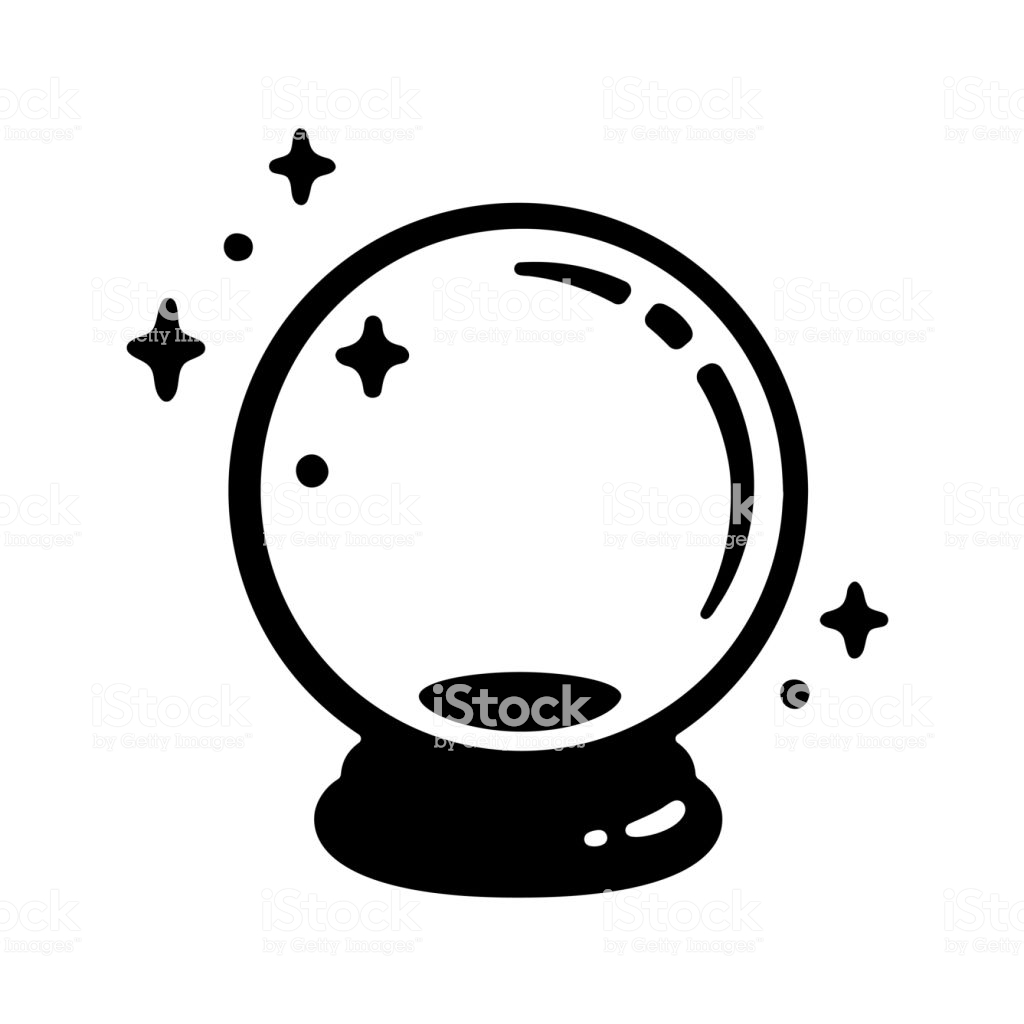
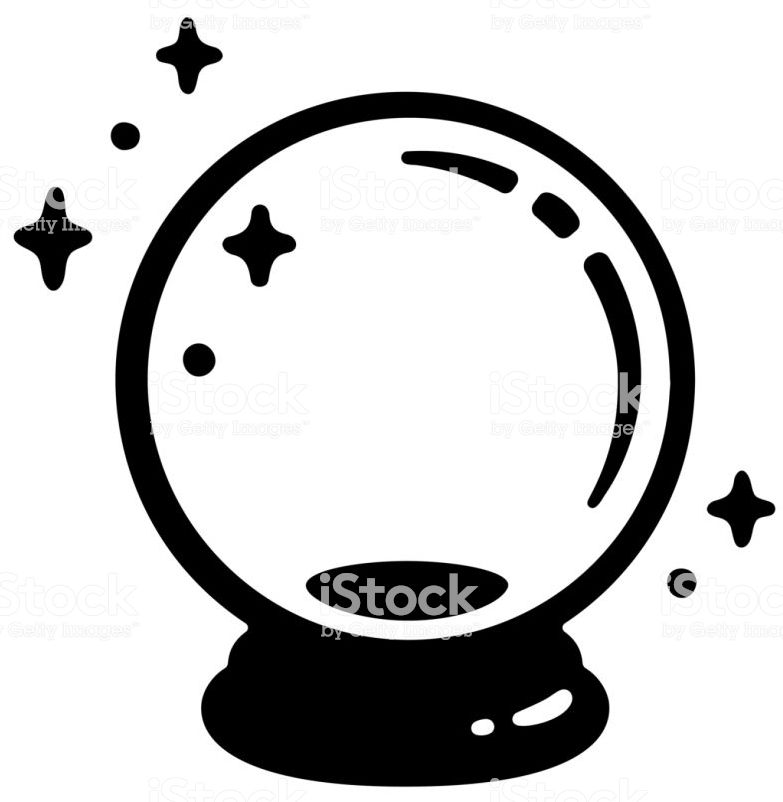
Should be done now, may make changes later on

diff --git a/assets/javascript/game.js b/assets/javascript/game.js
@@ -1,0 +1,66 @@
+var winCount = 0;
+var lossCount = 0;
+var guessesLeft = 10;
+var guessesSoFar = [];
+var alphabet = ["A", "B", "C", "D", "E", "F", "G", "H", "I", "J", "K", "L", "M", "N", "O", "P", "Q", "R", "S", "T", "U", "V", "W", "X", "Y", "Z"];
+var hardMode = false;
+var userKey2 = "";
+
+// hardMode = confirm("Welcome! Would you like to play on hard mode (I could be thinking of a number, too)?");
+// if (hardMode) {
+//     alphabet = ["A", "B", "C", "D", "E", "F", "G", "H", "I", "J", "K", "L", "M", "N", "O", "P", "Q", "R", "S", "T", "U", "V", "W", "X", "Y", "Z", "0", "1", "2", "3", "4", "5", "6", "7", "8", "9"];
+// }
+
+var targetChar = alphabet[Math.floor(Math.random()*alphabet.length)];
+console.log("Answer: " + targetChar);
+
+var winCountDiv = $("#winCount");
+winCountDiv.text("Wins: " + winCount);
+
+var lossCountDiv = $("#lossCount");
+lossCountDiv.text("Losses: " + lossCount);
+
+var guessesLeftDiv = $("#guessesLeft");
+guessesLeftDiv.text("You have " + guessesLeft + " guesses remaining.");
+
+var guessesSoFarDiv = $("#guessesSoFar");
+guessesSoFarDiv.text("Here's what you've guessed so far: [" + guessesSoFar + "]");
+
+// function addGuess(keyboardGuess) {
+//     guessesSoFar.push(keyboardGuess);
+// }
+
+function resetGame() {
+    guessesLeft = 10;
+    guessesLeftDiv.text("You have " + guessesLeft + " guesses remaining.");
+    guessesSoFar = [];
+    guessesSoFarDiv.text("Here's what you've guessed so far: [" + guessesSoFar + "]");
+    targetChar = alphabet[Math.floor(Math.random()*alphabet.length)];
+}
+
+function getKey(event) {
+    var userKey1 = event.keyCode;
+    var userKey2 = String.fromCharCode(userKey1).toUpperCase();
+    guessesLeft -= 1;
+    guessesLeftDiv.text("You have " + guessesLeft + " guesses remaining.");
+    guessesSoFar.push(userKey2);
+    guessesSoFarDiv.text("Here's what you've guessed so far: [" + guessesSoFar + "]");
+
+    if (userKey2 == targetChar) {
+        winCount += 1;
+        winCountDiv.text("Wins: " + winCount);
+        alert("You win!!! I -was- thinking of the letter '" + targetChar + "'! :D");
+        resetGame();
+    }
+
+    if (guessesLeft == 1) {
+        guessesLeftDiv.text("You have " + guessesLeft + " guess remaining. Make it count!");
+    }
+
+    if (guessesLeft == 0) {
+        lossCount += 1;
+        lossCountDiv.text("Losses: " + lossCount);
+        alert("Aww, you lost! I was thinking of the letter '" + targetChar + "'. Feel free to try again!");
+        resetGame();
+    }
+}

diff --git a/index.html b/index.html
@@ -5,8 +5,24 @@
     <meta name="viewport" content="width=device-width, initial-scale=1.0">
     <meta http-equiv="X-UA-Compatible" content="ie=edge">
     <title>Psychic Guessing Game!</title>
+    <link rel="stylesheet" href="assets/css/style.css">
 </head>
-<body>
-    
+<body onkeypress="getKey(event)">
+    <header>
+        <h1>Welcome to the Psychic Guessing Game!!!</h1>
+        <img src="assets/images/kk.png" alt="Crystal-Ball">
+    </header>
+    <hr>
+    <h2>Use the keyboard to try to guess which letter I'm thinking of!</h2>
+
+    <div id="winCount"></div>
+    <div id="lossCount"></div>
+    <div id="guessesLeft"></div>
+    <div id="guessesSoFar"></div>
+
+
+    <script src="https://cdnjs.cloudflare.com/ajax/libs/jquery/3.2.1/jquery.min.js"></script>
+    <script src="assets/javascript/game.js"></script>
+
 </body>
 </html>

diff --git a/assets/css/style.css b/assets/css/style.css
@@ -1,0 +1,17 @@
+div {
+    font-size: 25px;
+    margin: 20px 0px 20px 0px;
+}
+
+img {
+    width: 200px;
+}
+
+header {
+    text-align: center;
+}
+
+body {
+    background-color: lightpink;
+    text-align: center;
+}
